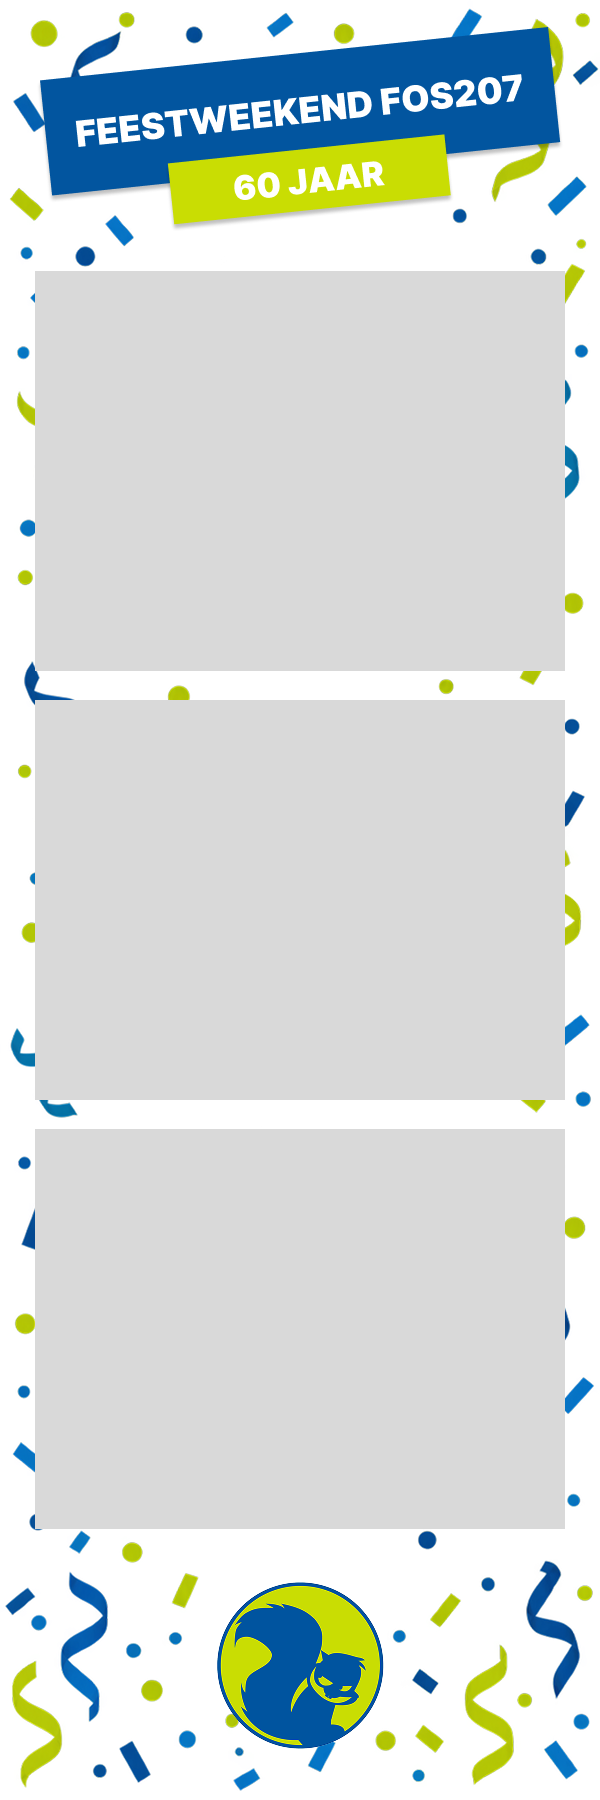
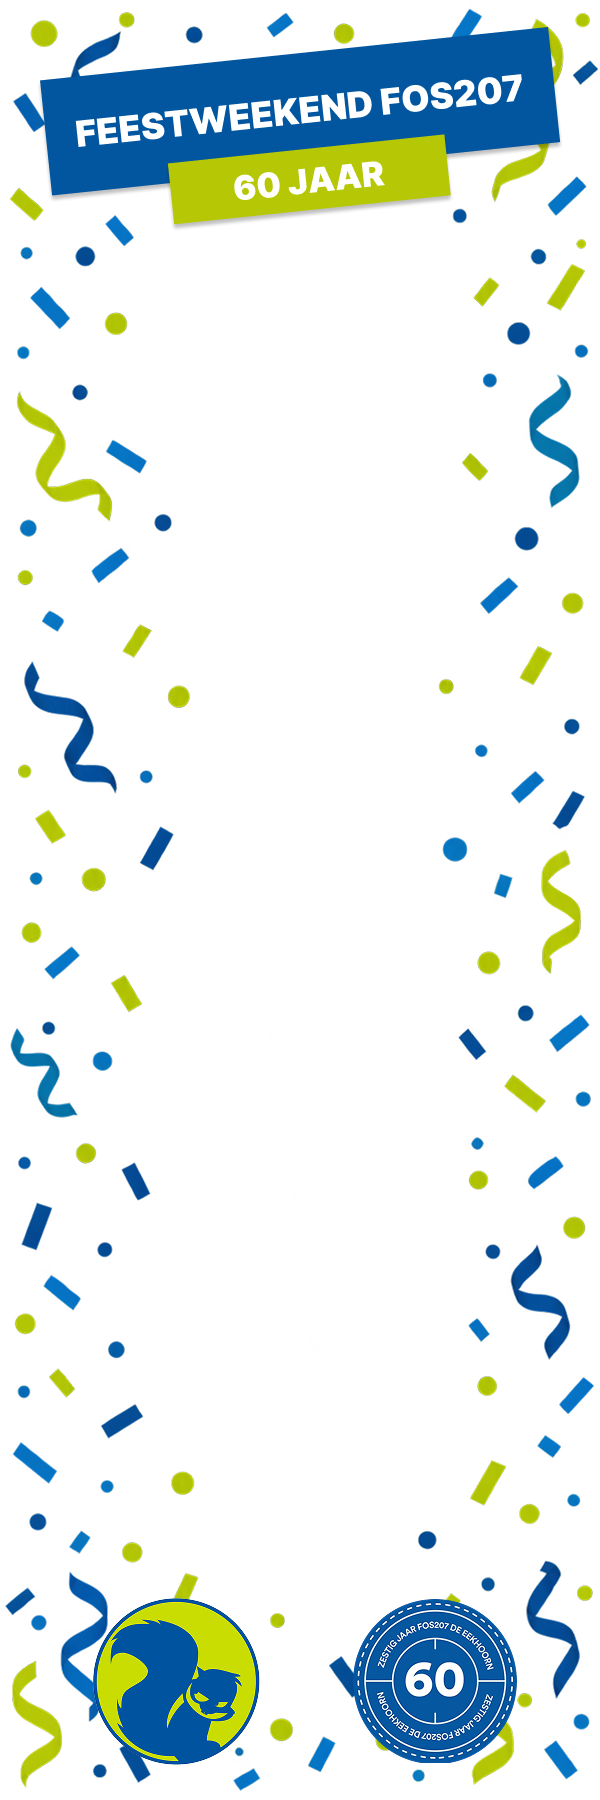
oke

diff --git a/static/app.js b/static/app.js
@@ -16,6 +16,8 @@ const dots = [...document.querySelectorAll('.dot')];
 const flash = document.getElementById('flash');
 const cameraFeed = document.getElementById('cameraFeed');
 const cameraLayer = document.getElementById('cameraLayer');
+const printScreen = document.getElementById('printScreen');
+const printCountdown = document.getElementById('printCountdown');
 
 const updateProgress = () => {
     dots.forEach((dot, index) => {
@@ -105,6 +107,21 @@ const runCountdown = (value) => new Promise((resolve) => {
     state.countdownTimer = setTimeout(resolve, 900);
 });
 
+const runPrintCountdown = () => new Promise((resolve) => {
+    let remaining = 10;
+    printCountdown.textContent = remaining;
+    printScreen.classList.add('visible');
+
+    const timer = setInterval(() => {
+        remaining -= 1;
+        printCountdown.textContent = remaining;
+        if (remaining === 0) {
+            clearInterval(timer);
+            resolve();
+        }
+    }, 1000);
+});
+
 const runCaptureSequence = async () => {
     state.isCapturing = true;
     for (let i = 1; i <= 3; i += 1) {
@@ -120,19 +137,21 @@ const runCaptureSequence = async () => {
 
     state.isCapturing = false;
 
-    setStatus('JE FOTO\'S WORDEN GEPRINT...', true);
     progress.classList.remove('visible');
 
     try {
-        const res = await fetch('/api/finish', { method: 'POST' });
+        const [res] = await Promise.all([
+            fetch('/api/finish', { method: 'POST' }),
+            runPrintCountdown(),
+        ]);
         const data = await res.json();
         if (!data.success) {
             throw new Error(data.error || 'Finish failed');
         }
 
-        setStatus(data.message || 'PRINT KLAAR', true);
     } catch (error) {
-        setStatus(error.message || 'PRINTER NIET BESCHIKBAAR', true);
+    } finally {
+        printScreen.classList.remove('visible');
     }
 
     setTimeout(() => {

diff --git a/static/styles.css b/static/styles.css
@@ -76,6 +76,41 @@ body {
     pointer-events: none;
 }
 
+.print-screen {
+    position: absolute;
+    inset: 0;
+    z-index: 20;
+    display: flex;
+    flex-direction: column;
+    align-items: center;
+    justify-content: center;
+    gap: 22px;
+    background: #000;
+    opacity: 0;
+    pointer-events: none;
+    transition: opacity 0.15s ease;
+}
+
+.print-screen.visible {
+    opacity: 1;
+    pointer-events: auto;
+}
+
+.print-title {
+    color: var(--white);
+    font-size: clamp(1.4rem, 3vw, 3rem);
+    font-weight: 800;
+    letter-spacing: 0.12em;
+    text-align: center;
+}
+
+.print-countdown {
+    color: var(--white);
+    font-size: clamp(7rem, 18vw, 20rem);
+    font-weight: 900;
+    line-height: 1;
+}
+
 .start-message,
 .countdown,
 .status {

diff --git a/templates/index.html b/templates/index.html
@@ -24,6 +24,11 @@
         </div>
       </div>
 
+      <div class="print-screen" id="printScreen" aria-live="polite">
+        <div class="print-title">FOTO'S PRINTEN</div>
+        <div class="print-countdown" id="printCountdown">10</div>
+      </div>
+
       <div class="overlay" id="uiOverlay">
         <div class="start-message" id="startMessage">KLIK OM<br />FOTO TE NEMEN</div>
         <div class="countdown" id="countdown" aria-live="polite"></div>

diff --git a/config.py b/config.py
@@ -4,7 +4,7 @@ from pathlib import Path
 
 BASE_DIR = Path(__file__).resolve().parent
 
-TEST_MODE = False
+TEST_MODE = True
 
 HOST = "0.0.0.0"
 PORT = 8000
